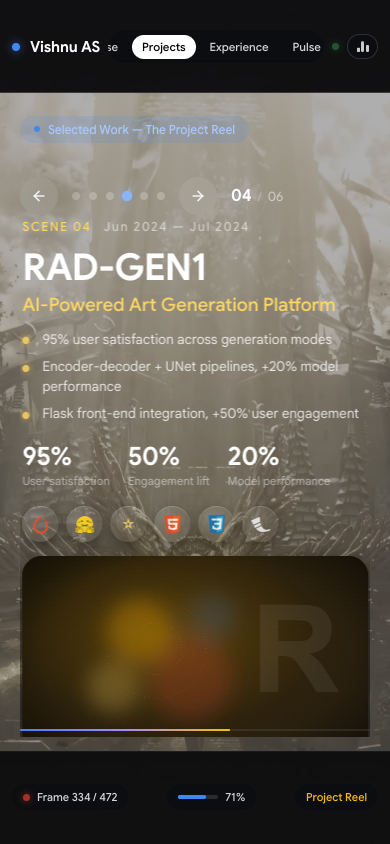
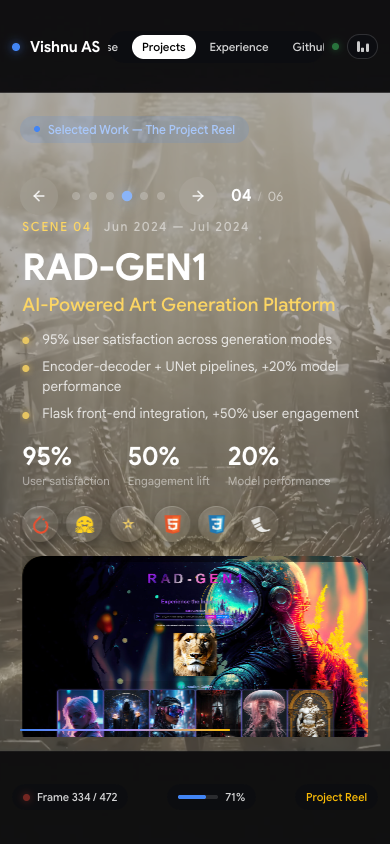
Premium designing Project section

diff --git a/style.css b/style.css
@@ -4040,6 +4040,20 @@ html.js body.is-ready .hero-scroll-cue {
     animation-delay: 0s !important;
     animation-iteration-count: 1 !important;
   }
+
+  /* Reel stills land as a static composition: no wipe, no drift, no sweep.
+     Specificity matches the .is-active animation rules so this wins. */
+  .reel-scene.is-active .still-frame,
+  .reel-scene.is-active .still-img {
+    animation: none !important;
+    filter: none;
+    clip-path: none;
+    transform: none;
+  }
+
+  .reel-scene.is-active .still-frame::after {
+    animation: none !important;
+  }
 }
 
 /* ==========================================================================
@@ -4334,14 +4348,47 @@ html.js body.is-ready .hero-scroll-cue {
   will-change: transform;
 }
 
+/* The glass: hue-tinted hairline frame + inset top highlight + deep seat
+   shadow. Owns overflow so the reveal wipe, Ken Burns zoom and specular
+   sweep all clip to the rounded corners. */
+.still-frame {
+  position: relative;
+  overflow: hidden;
+  border-radius: 26px;
+  box-shadow:
+    inset 0 0 0 1px color-mix(in srgb, var(--sc-hue, #8ab4f8) 38%, transparent),
+    inset 0 1px 0 rgba(255, 255, 255, 0.14),
+    0 34px 90px rgba(0, 0, 0, 0.62),
+    0 10px 28px rgba(0, 0, 0, 0.5);
+}
+
+/* Specular sweep — rests off-frame left, crosses once per activation. */
+.still-frame::after {
+  content: '';
+  position: absolute;
+  top: -30%;
+  bottom: -30%;
+  left: 0;
+  width: 42%;
+  background: linear-gradient(
+    100deg,
+    rgba(255, 255, 255, 0) 0%,
+    rgba(255, 255, 255, 0.1) 35%,
+    rgba(255, 255, 255, 0.32) 50%,
+    rgba(255, 255, 255, 0.1) 65%,
+    rgba(255, 255, 255, 0) 100%
+  );
+  transform: translateX(-160%) skewX(-14deg);
+  pointer-events: none;
+  z-index: 1;
+}
+
 .still-img {
   width: 100%;
   aspect-ratio: 16 / 10;
   object-fit: cover;
-  border-radius: 26px;
   display: block;
   background: #0b0d12;
-  box-shadow: 0 34px 90px rgba(0, 0, 0, 0.62), 0 10px 28px rgba(0, 0, 0, 0.5);
   user-select: none;
   -webkit-user-drag: none;
 }
@@ -4366,6 +4413,9 @@ html.js body.is-ready .hero-scroll-cue {
   font-weight: 500;
   color: var(--text-muted);
   letter-spacing: 0.02em;
+  opacity: 0;
+  transform: translateY(14px);
+  transition: opacity 0.5s var(--ease-google) 0.55s, transform 0.6s var(--ease-google) 0.55s;
 }
 
 /* Graceful fallback when a project has no photo AND no poster yet */
@@ -4379,7 +4429,6 @@ html.js body.is-ready .hero-scroll-cue {
   font-size: clamp(80px, 16vh, 180px);
   font-weight: 700;
   color: rgba(255, 255, 255, 0.16);
-  box-shadow: 0 34px 90px rgba(0, 0, 0, 0.62), 0 10px 28px rgba(0, 0, 0, 0.5);
 }
 
 .still-frame-tag {
@@ -4450,6 +4499,47 @@ html.js body.is-ready .hero-scroll-cue {
 .reel-scene.is-active .scene-metric { transition-delay: var(--d, 0.44s); opacity: 1; transform: none; }
 .reel-scene.is-active .mini-bead { transition-delay: var(--d, 0.5s); opacity: 1; transform: none; }
 .reel-scene.is-active .mini-bead:hover { transform: translateY(-3px) scale(1.1); }
+.reel-scene.is-active .still-caption { opacity: 1; transform: none; }
+
+/* ---- premium still: reveal → Ken Burns → specular sweep (all one-shot) ----
+   Base state = final frame; only .is-active animates, so dropping .is-active
+   returns to a stable image — no visual jump while the scene fades out. */
+@keyframes stillReveal {
+  from {
+    clip-path: inset(0 0 100% 0);
+    transform: scale(1.07);
+    filter: blur(14px);
+    opacity: 0.35;
+  }
+  to {
+    clip-path: inset(0 0 0 0);
+    transform: scale(1);
+    filter: blur(0);
+    opacity: 1;
+  }
+}
+
+@keyframes stillZoom {
+  from { transform: scale(1); }
+  to { transform: scale(1.045); }
+}
+
+@keyframes stillSweep {
+  from { transform: translateX(-160%) skewX(-14deg); }
+  to { transform: translateX(420%) skewX(-14deg); }
+}
+
+.reel-scene.is-active .still-frame {
+  animation: stillReveal 0.95s 0.06s var(--ease-google) both;
+}
+
+.reel-scene.is-active .still-img {
+  animation: stillZoom 16s 1s ease-in-out infinite alternate;
+}
+
+.reel-scene.is-active .still-frame::after {
+  animation: stillSweep 1.2s 0.95s var(--ease-google);
+}
 
 /* ---- responsive ---- */
 @media (max-width: 900px) {
@@ -4477,9 +4567,12 @@ html.js body.is-ready .hero-scroll-cue {
     display: none;
   }
 
+  .still-frame {
+    border-radius: 20px;
+  }
+
   .still-img {
     aspect-ratio: 16 / 9;
-    border-radius: 20px;
   }
 
   .mini-bead {

diff --git a/projects.js b/projects.js
@@ -2,7 +2,8 @@
 // THE PROJECT REEL — data, scene builder & controller (scroll-driven)
 // ==========================================================================
 // To add a project: append an object here and drop a poster at
-// /public/projects/<id>.svg (or set `image: '<file>'`). Scenes, dots,
+// /public/projects/<id>.svg (or set `image: '<file>'` — a screenshot in
+// /public/images). Scenes, dots,
 // counter, keyboard nav and drag physics all derive automatically.
 // Skill chips: `icon` = file in /public/icons, or `glyph` + `tint` for
 // technologies with no official brand mark.
@@ -40,6 +41,7 @@ const PROJECTS_DATA = [
     subtitle: 'Adaptive Personalized Learning AI Engine',
     period: 'Emotion-Aware · RAG · Multi-Agent',
     hue: '#c58af9',
+    image: 'masterx.jpeg',
     blurb: 'A sophisticated emotion-aware learning platform with custom ML models — real-time cognitive-load detection prevents overwhelm while adaptive difficulty keeps every learner in flow.',
     highlights: [
       'Real-time emotion & cognitive-load detection',
@@ -101,6 +103,7 @@ const PROJECTS_DATA = [
     subtitle: 'AI-Powered Art Generation Platform',
     period: 'Jun 2024 — Jul 2024',
     hue: '#fdd663',
+    image: 'radgen.jpeg',
     blurb: 'A Stable Diffusion art platform built on PyTorch, Hugging Face and Transformers — text-to-image, image-to-image and inpainting, with encoder-decoder and UNet pipelines for image quality.',
     highlights: [
       '95% user satisfaction across generation modes',
@@ -127,6 +130,7 @@ const PROJECTS_DATA = [
     subtitle: 'Strategic Market Intelligence',
     period: 'May 2024 — Jun 2024',
     hue: '#81c995',
+    image: 'trends.jpeg',
     blurb: 'Real-time and historical search behavior from 2004 to today — 80+ keywords across 60+ countries, turned into dashboards that drive strategic business decisions.',
     highlights: [
       '80+ keywords, 60+ countries, two decades of Trends data',
@@ -153,6 +157,7 @@ const PROJECTS_DATA = [
     subtitle: 'E-commerce Intelligence at Scale',
     period: 'Feb 2024 — Apr 2024',
     hue: '#78d9ec',
+    image: 'segmentation.jpeg',
     blurb: 'A million synthetic e-commerce shoppers, segmented with RFM, PCA and K-Means — then valued with an ensemble that lifted prediction accuracy to 94.6%.',
     highlights: [
       '1,000,000-user dataset curated from GPT, Kaggle & public sources',
@@ -213,7 +218,7 @@ export function initProjectReel({ stage, scrollToProgress }) {
 
     const num = String(i + 1).padStart(2, '0');
     const poster = `/projects/${p.id}.svg`;
-    const stillSrc = p.image ? `/projects/${p.image}` : poster;
+    const stillSrc = p.image ? `/images/${p.image}` : poster;
 
     const metricsHTML = p.metrics && p.metrics.length
       ? `<div class="scene-metrics">${p.metrics.map((m, j) => `
@@ -236,8 +241,10 @@ export function initProjectReel({ stage, scrollToProgress }) {
       <div class="scene-visual">
         <div class="still-wrap">
           <div class="still-tilt">
-            <img class="still-img" src="${stillSrc}" alt="${p.title} — project still" loading="lazy" draggable="false"
-              onerror="if(!this.dataset.fb){this.dataset.fb=1;this.src='${poster}';}else{const f=document.createElement('div');f.className='still-fallback';f.textContent='${p.title.charAt(0)}';f.style.background='radial-gradient(circle at 40% 30%, color-mix(in srgb, var(--sc-hue, #8ab4f8) 30%, #0b0d12), #0b0d12)';this.replaceWith(f);}">
+            <div class="still-frame">
+              <img class="still-img" src="${stillSrc}" alt="${p.title} — project still" loading="lazy" draggable="false"
+                onerror="if(!this.dataset.fb){this.dataset.fb=1;this.src='${poster}';}else{const f=document.createElement('div');f.className='still-fallback';f.textContent='${p.title.charAt(0)}';f.style.background='radial-gradient(circle at 40% 30%, color-mix(in srgb, var(--sc-hue, #8ab4f8) 30%, #0b0d12), #0b0d12)';this.replaceWith(f);}">
+            </div>
             <span class="still-glow" style="background: radial-gradient(circle at 50% 50%, ${p.hue}, transparent 70%)"></span>
           </div>
           <div class="still-caption"><span>${p.title} · ${p.subtitle}</span><span class="still-frame-tag">SCENE ${num}</span></div>

diff --git a/tests/projects.baseline.js b/tests/projects.baseline.js
@@ -2,7 +2,8 @@
 // THE PROJECT REEL — data, scene builder & controller (scroll-driven)
 // ==========================================================================
 // To add a project: append an object here and drop a poster at
-// /public/projects/<id>.svg (or set `image: '<file>'`). Scenes, dots,
+// /public/projects/<id>.svg (or set `image: '<file>'` — a screenshot in
+// /public/images). Scenes, dots,
 // counter, keyboard nav and drag physics all derive automatically.
 // Skill chips: `icon` = file in /public/icons, or `glyph` + `tint` for
 // technologies with no official brand mark.
@@ -40,6 +41,7 @@ const PROJECTS_DATA = [
     subtitle: 'Adaptive Personalized Learning AI Engine',
     period: 'Emotion-Aware · RAG · Multi-Agent',
     hue: '#c58af9',
+    image: 'masterx.jpeg',
     blurb: 'A sophisticated emotion-aware learning platform with custom ML models — real-time cognitive-load detection prevents overwhelm while adaptive difficulty keeps every learner in flow.',
     highlights: [
       'Real-time emotion & cognitive-load detection',
@@ -101,6 +103,7 @@ const PROJECTS_DATA = [
     subtitle: 'AI-Powered Art Generation Platform',
     period: 'Jun 2024 — Jul 2024',
     hue: '#fdd663',
+    image: 'radgen.jpeg',
     blurb: 'A Stable Diffusion art platform built on PyTorch, Hugging Face and Transformers — text-to-image, image-to-image and inpainting, with encoder-decoder and UNet pipelines for image quality.',
     highlights: [
       '95% user satisfaction across generation modes',
@@ -127,6 +130,7 @@ const PROJECTS_DATA = [
     subtitle: 'Strategic Market Intelligence',
     period: 'May 2024 — Jun 2024',
     hue: '#81c995',
+    image: 'trends.jpeg',
     blurb: 'Real-time and historical search behavior from 2004 to today — 80+ keywords across 60+ countries, turned into dashboards that drive strategic business decisions.',
     highlights: [
       '80+ keywords, 60+ countries, two decades of Trends data',
@@ -153,6 +157,7 @@ const PROJECTS_DATA = [
     subtitle: 'E-commerce Intelligence at Scale',
     period: 'Feb 2024 — Apr 2024',
     hue: '#78d9ec',
+    image: 'segmentation.jpeg',
     blurb: 'A million synthetic e-commerce shoppers, segmented with RFM, PCA and K-Means — then valued with an ensemble that lifted prediction accuracy to 94.6%.',
     highlights: [
       '1,000,000-user dataset curated from GPT, Kaggle & public sources',
@@ -213,7 +218,7 @@ export function initProjectReel({ stage, scrollToProgress }) {
 
     const num = String(i + 1).padStart(2, '0');
     const poster = `/projects/${p.id}.svg`;
-    const stillSrc = p.image ? `/projects/${p.image}` : poster;
+    const stillSrc = p.image ? `/images/${p.image}` : poster;
 
     const metricsHTML = p.metrics && p.metrics.length
       ? `<div class="scene-metrics">${p.metrics.map((m, j) => `
@@ -236,8 +241,10 @@ export function initProjectReel({ stage, scrollToProgress }) {
       <div class="scene-visual">
         <div class="still-wrap">
           <div class="still-tilt">
-            <img class="still-img" src="${stillSrc}" alt="${p.title} — project still" loading="lazy" draggable="false"
-              onerror="if(!this.dataset.fb){this.dataset.fb=1;this.src='${poster}';}else{const f=document.createElement('div');f.className='still-fallback';f.textContent='${p.title.charAt(0)}';f.style.background='radial-gradient(circle at 40% 30%, color-mix(in srgb, var(--sc-hue, #8ab4f8) 30%, #0b0d12), #0b0d12)';this.replaceWith(f);}">
+            <div class="still-frame">
+              <img class="still-img" src="${stillSrc}" alt="${p.title} — project still" loading="lazy" draggable="false"
+                onerror="if(!this.dataset.fb){this.dataset.fb=1;this.src='${poster}';}else{const f=document.createElement('div');f.className='still-fallback';f.textContent='${p.title.charAt(0)}';f.style.background='radial-gradient(circle at 40% 30%, color-mix(in srgb, var(--sc-hue, #8ab4f8) 30%, #0b0d12), #0b0d12)';this.replaceWith(f);}">
+            </div>
             <span class="still-glow" style="background: radial-gradient(circle at 50% 50%, ${p.hue}, transparent 70%)"></span>
           </div>
           <div class="still-caption"><span>${p.title} · ${p.subtitle}</span><span class="still-frame-tag">SCENE ${num}</span></div>
